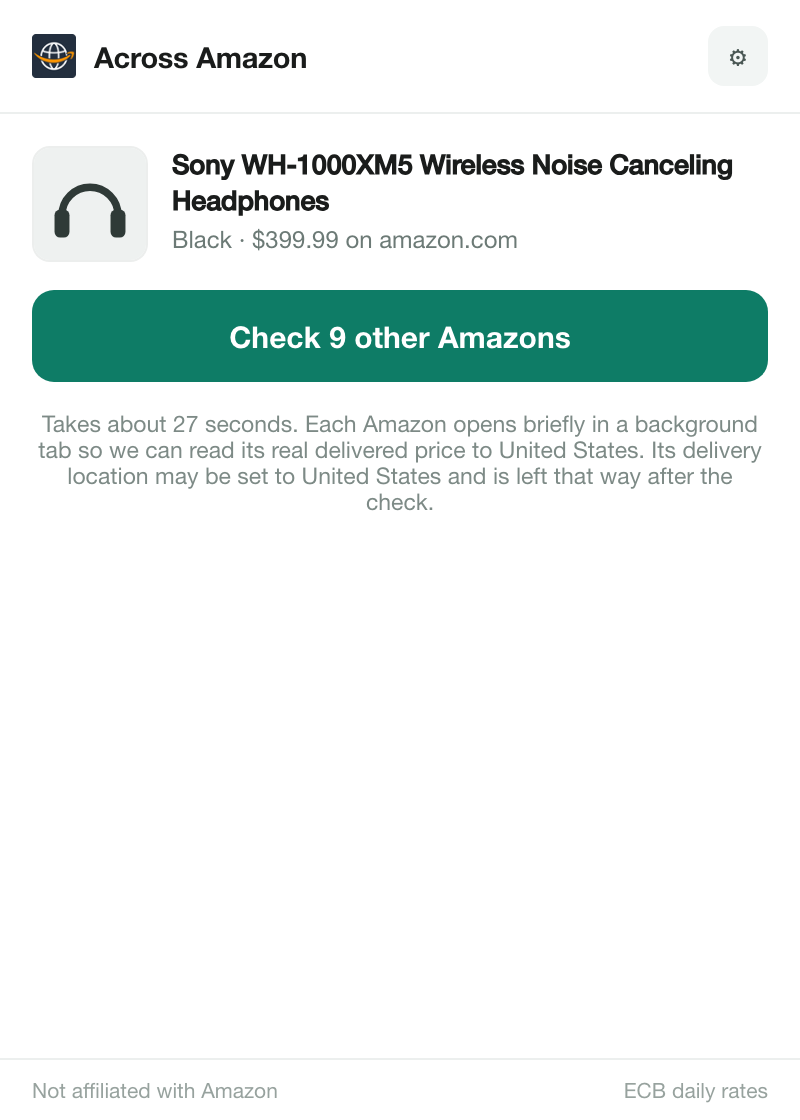
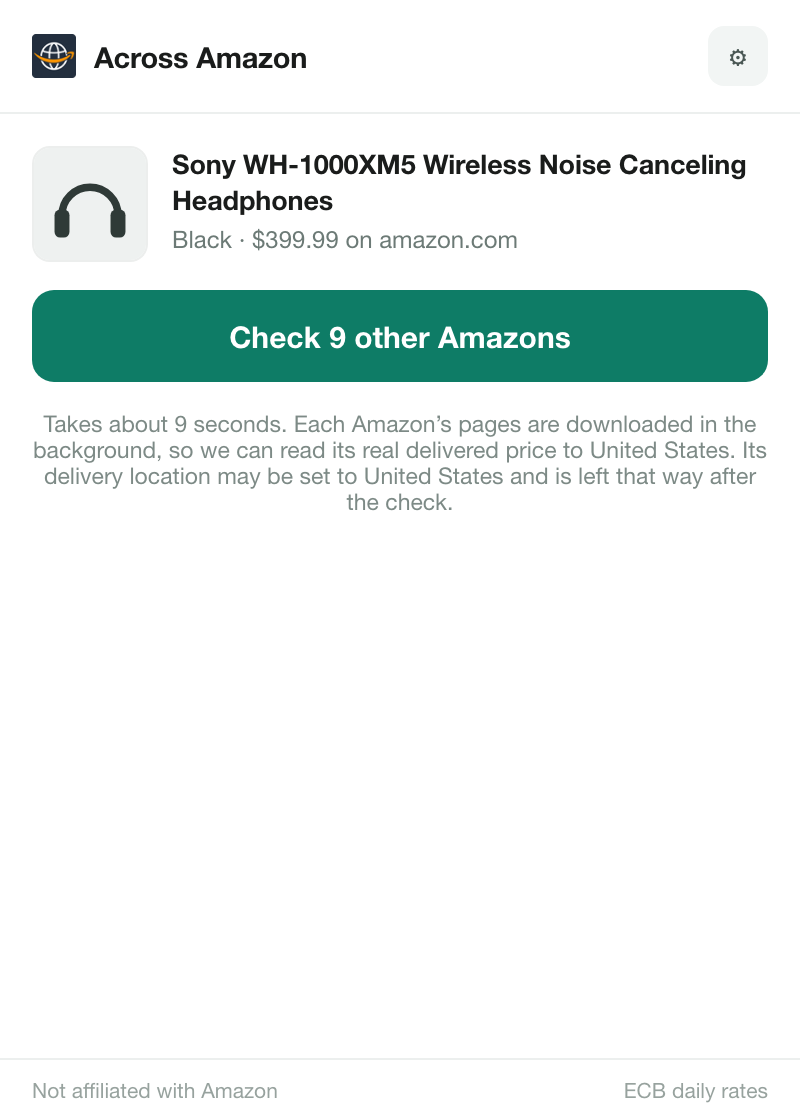
docs(screenshots): show three stores being checked at once
Regenerate the idle, running and settings screenshots with
pnpm docs:screenshots. The running view now shows 3 of 9 stores done
with Germany, France and Italy in progress, France being searched; the
idle and settings views carry the new estimate and hints. The other
captures differ only by rendering, so the committed files stay.

The site gets the new idle and running images. The running alt texts,
the how-it-works caption, the dial value in docs/popup.md and the
screenshot table in docs/testing.md follow the new running view.

Changed region(s): [[0.0312, 0.375, 0.9688, 0.4688], [0.2188, 0.125, 0.9375, 0.1875]]

diff --git a/docs/testing.md b/docs/testing.md
@@ -107,7 +107,7 @@ The script starts the Vite dev server on a free port, loads `tests/e2e/harness.t
 | File | State |
 | --- | --- |
 | `idle.png` | Product loaded, ready to check |
-| `running.png` | 4 of 9 marketplaces checked, France being searched |
+| `running.png` | 3 of 9 marketplaces checked, Germany, France and Italy in progress, France being searched |
 | `done.png` | Save verdict |
 | `done-list.png` | Results scrolled to the ranked list |
 | `issues-open.png` | Issues expanded, scrolled to the bottom |
@@ -116,6 +116,6 @@ The script starts the Vite dev server on a free port, loads `tests/e2e/harness.t
 | `settings.png` | Settings |
 | `not-on-amazon.png` | A page that is not on Amazon |
 
-Each state is checked before it is captured (for example the verdict must read "Save $50.94" and the dial "4/9"), and the capture fails if anything other than the popup's content area has scrolled. Re-running the script on the same machine produces identical files, so a diff in `docs/screenshots` means the popup changed. Fonts come from the operating system, so captures from different platforms differ slightly.
+Each state is checked before it is captured (for example the verdict must read "Save $50.94" and the dial "3/9"), and the capture fails if anything other than the popup's content area has scrolled. Re-running the script on the same machine produces identical files, so a diff in `docs/screenshots` means the popup changed. Fonts come from the operating system, so captures from different platforms differ slightly.
 
 Run it after a change to the popup's appearance or copy and commit the updated PNGs with that change. It needs Playwright's Chromium (`pnpm exec playwright install chromium`) and a supported Node.js version that runs TypeScript natively: 22.18 or later on the 22 line, 24, or 26 and later. It is not part of CI.

diff --git a/docs/popup.md b/docs/popup.md
@@ -41,11 +41,11 @@ The footer reads "ECB daily rates" until a check has loaded exchange rates. Afte
 
 ## 2. Running
 
-<img src="screenshots/running.png" width="360" alt="Running popup with a progress dial at 4 of 9, Searching France, and chips for Canada, Mexico, United Kingdom, Germany and France">
+<img src="screenshots/running.png" width="360" alt="Running popup with a progress dial at 3 of 9, Searching France +2, chips for Canada, Mexico and the United Kingdom, and Germany, France and Italy in progress">
 
 Each marketplace is first looked up by your product's ASIN, Amazon's own product identifier, and searched only when it does not list that ASIN. Its pages are read in background tabs that open without taking focus. Each page is read as soon as its content has arrived, without waiting for Amazon's images and ads, and its tab closes as soon as it has been read. Before a marketplace's first page is read, its delivery location is [set to your destination](#your-destination-and-the-other-marketplaces). The popup shows:
 
-- **The dial**: how many marketplaces are finished out of the total (4/9 here).
+- **The dial**: how many marketplaces are finished out of the total (3/9 here).
 - **The current step** for the marketplace in progress: *Opening tab*, *Searching*, *Matching product* or *Reading cost stack*, followed by its domain. A marketplace that lists your product's ASIN goes straight from *Opening tab* to *Reading cost stack*.
 - **A chip per finished marketplace**, in the order they were checked. A green chip shows the delivered total in your display currency. A chip with "—" means that marketplace could not be compared. The [issues list](#5-issues) explains why once the check is done. The blue chip with "…" is the marketplace being checked now.
 

diff --git a/README.md b/README.md
@@ -12,7 +12,7 @@ The website at https://across-amazon.dortort.dev has the privacy policy, the FAQ
 
 | Idle | Running | Breakdown |
 | :---: | :---: | :---: |
-| <img src="docs/screenshots/idle.png" width="260" alt="Idle popup with the product and a Check 9 other Amazons button"> | <img src="docs/screenshots/running.png" width="260" alt="Progress dial at 4 of 9 with a chip per checked marketplace"> | <img src="docs/screenshots/sheet.png" width="260" alt="Germany breakdown: item, shipping, import fees and delivered total"> |
+| <img src="docs/screenshots/idle.png" width="260" alt="Idle popup with the product and a Check 9 other Amazons button"> | <img src="docs/screenshots/running.png" width="260" alt="Progress dial at 3 of 9 with a chip per checked marketplace and one per marketplace in progress"> | <img src="docs/screenshots/sheet.png" width="260" alt="Germany breakdown: item, shipping, import fees and delivered total"> |
 
 <sub>Screenshots show the real popup with illustrative fixture data, not real prices.</sub>
 
